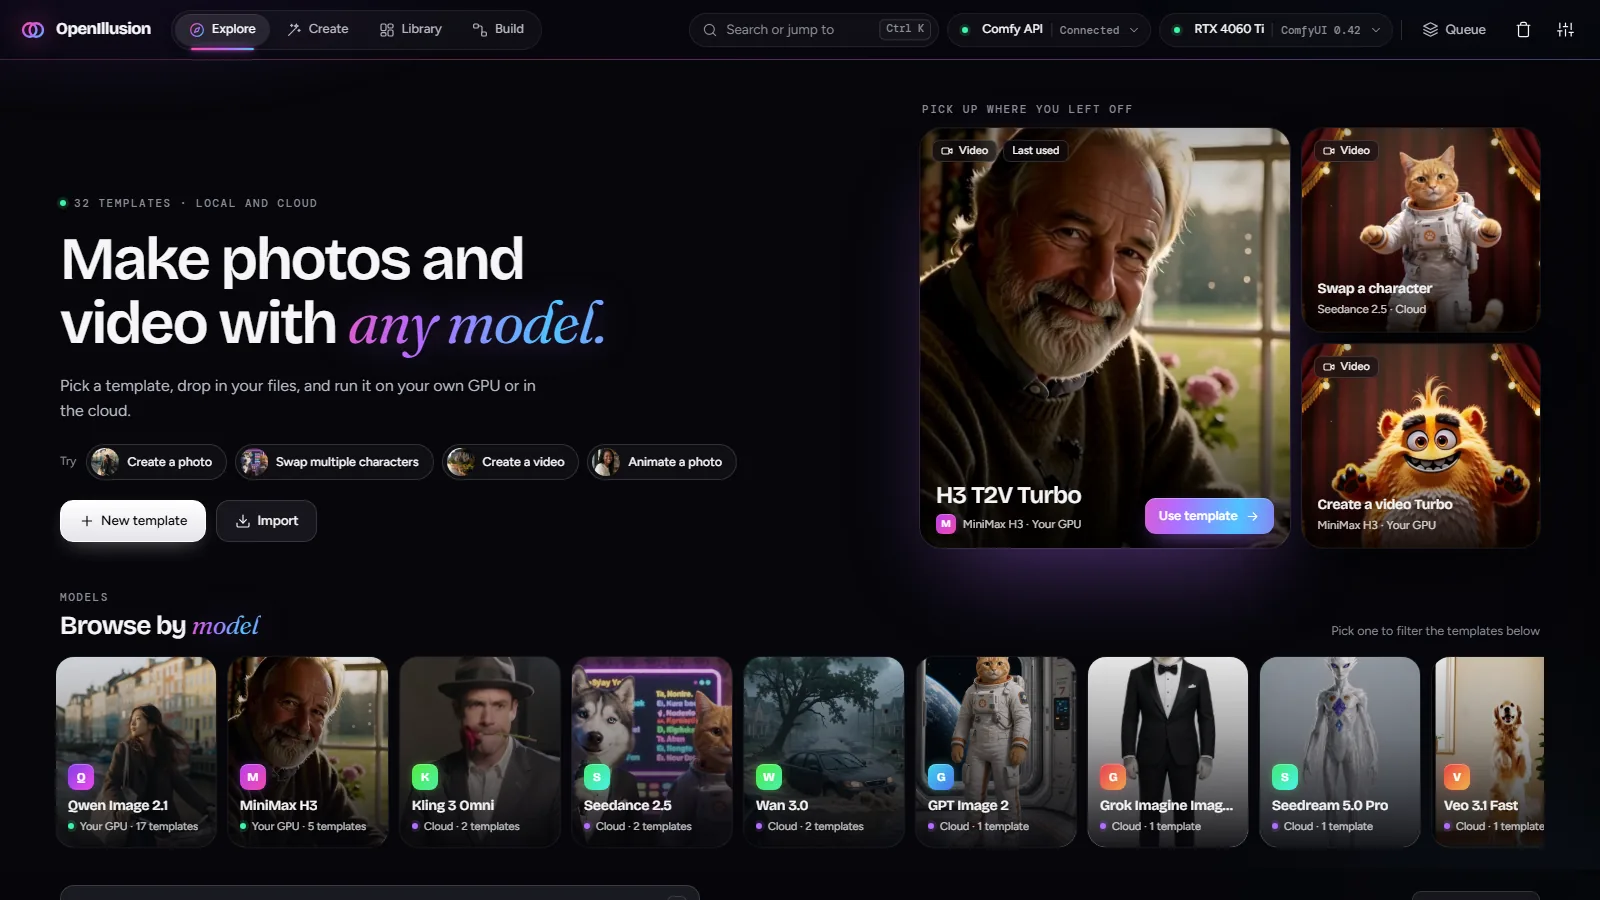
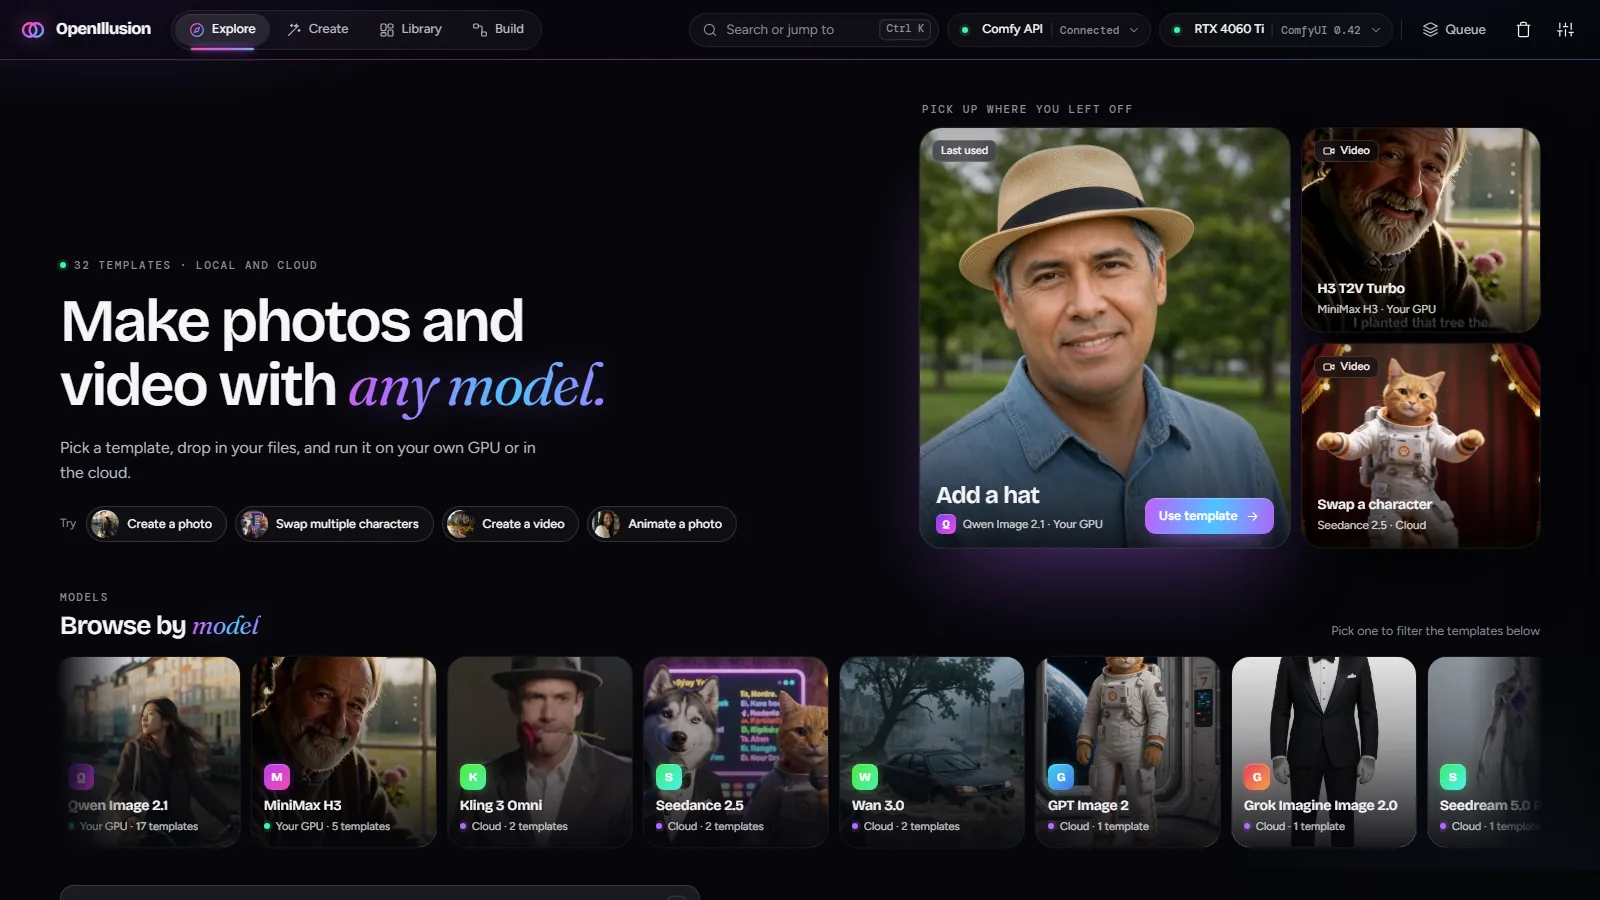
Screenshots caught up with Explore's new bar and side by side
Explore, the wall, Create and the phone set retaken: the model strip,
"Add a template" with New template at the bottom of the wall, and
results opening side by side. README captions say so.

diff --git a/README.md b/README.md
@@ -109,11 +109,11 @@ plain files on your machine. Entered in Comfy's
 <tr>
 <td width="50%" valign="top">
 <img src="docs/media/wall.webp" alt="Explore: browse by model, then every template on one wall"><br>
-<b>Explore.</b> Every template on one wall, each shown by a real result it made. Browse by model, search, filter by photo or video, where it runs and whether it's ready to run.
+<b>Explore.</b> Every template on one wall, each shown by a real result it made. Browse by model, search, filter by photo or video, where it runs and whether it's ready to run. One bar at the bottom adds a template: drop a shared <code>.illusion</code>, or start a new one.
 </td>
 <td width="50%" valign="top">
 <img src="docs/media/create.webp" alt="Create: Swap a character on Seedance 2.5, the run beside its input"><br>
-<b>Create.</b> Inputs, prompt and settings on the left; your run against its input on the stage, side by side or as a wipe; every earlier run in the rail.
+<b>Create.</b> Inputs, prompt and settings on the left; your run against its input on the stage, side by side or as a wipe, with its sound; every earlier run in the rail.
 </td>
 </tr>
 <tr>
@@ -139,7 +139,7 @@ plain files on your machine. Entered in Comfy's
 </table>
 
 <p align="center">
-  <img src="docs/media/phone.webp" alt="On a phone: Explore, a run's page and the Library with a run in progress" width="88%"><br>
+  <img src="docs/media/phone.webp" alt="On a phone: Explore, a run's page and the Library" width="88%"><br>
   <sub><b>On your phone.</b> The same app, laid out for touch: a tab bar, the status chips in each page's header, runs followed live.</sub>
 </p>
 
